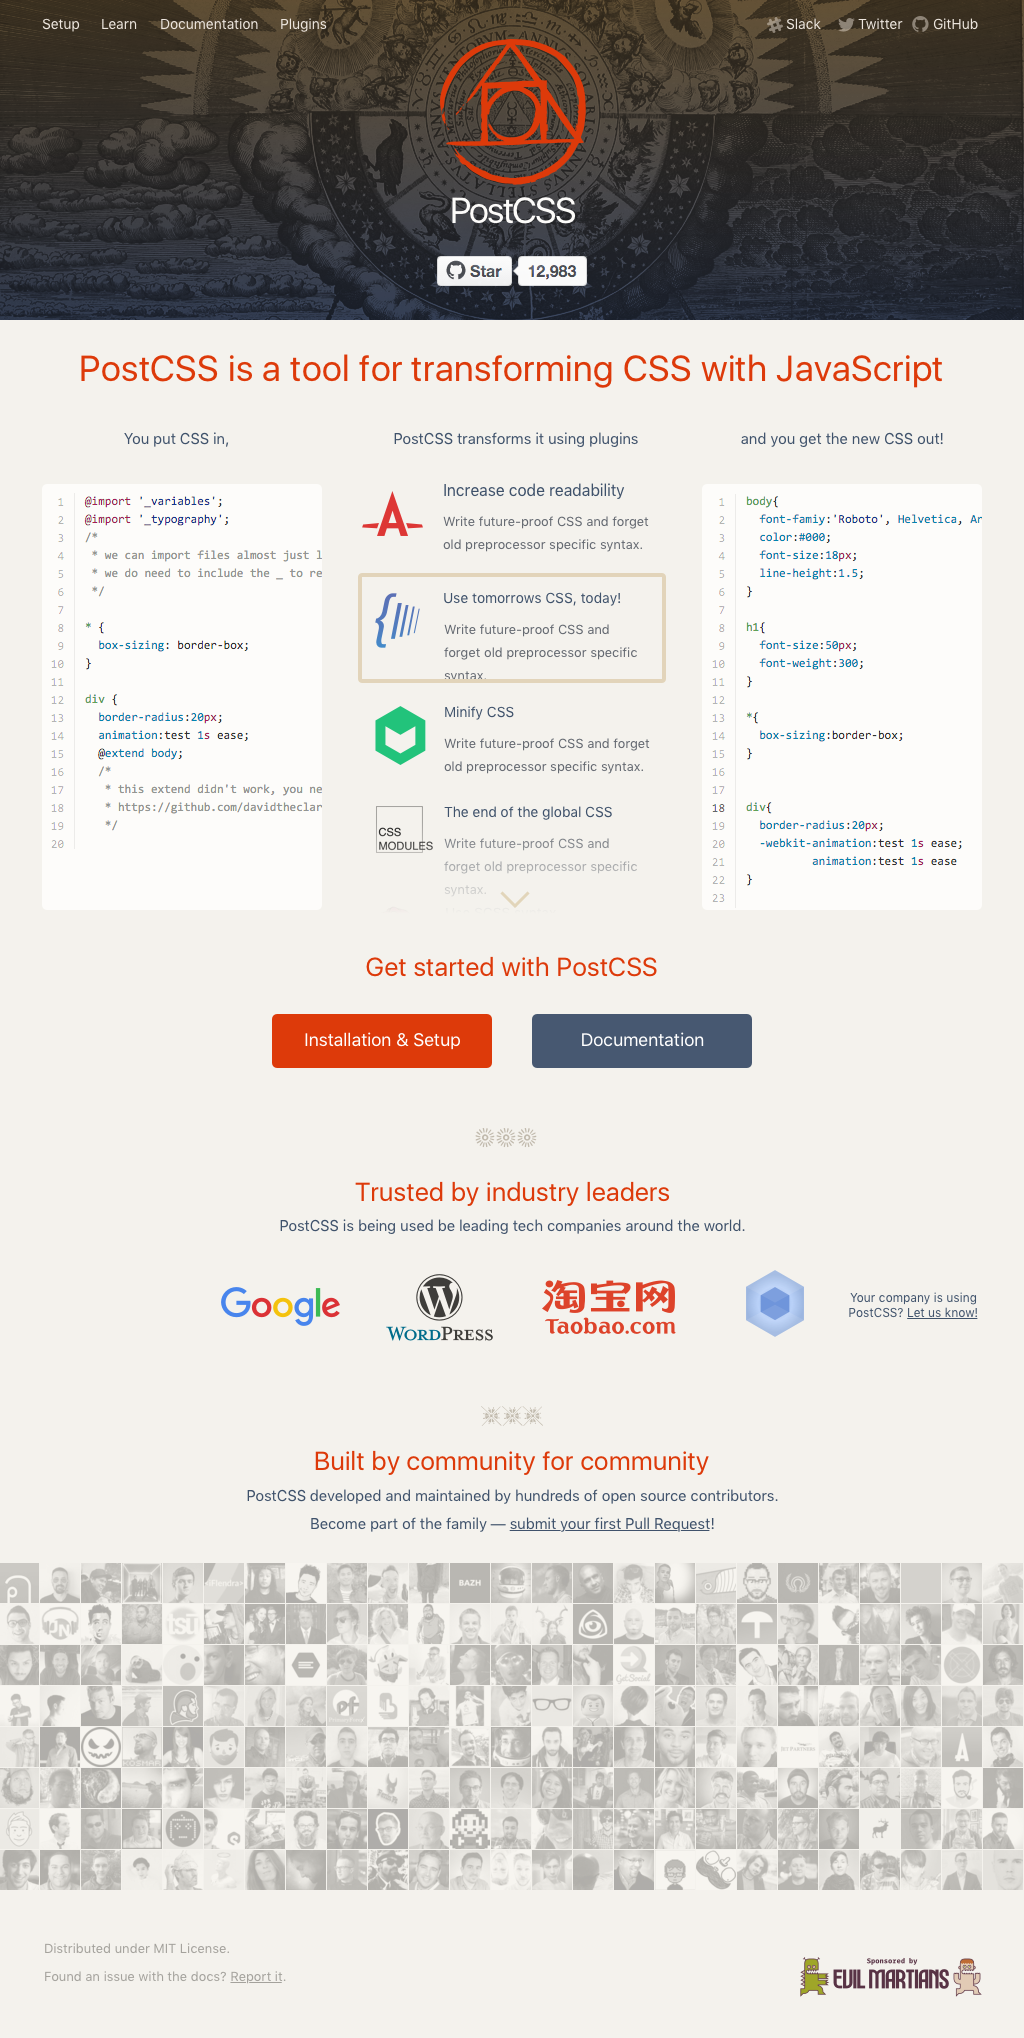
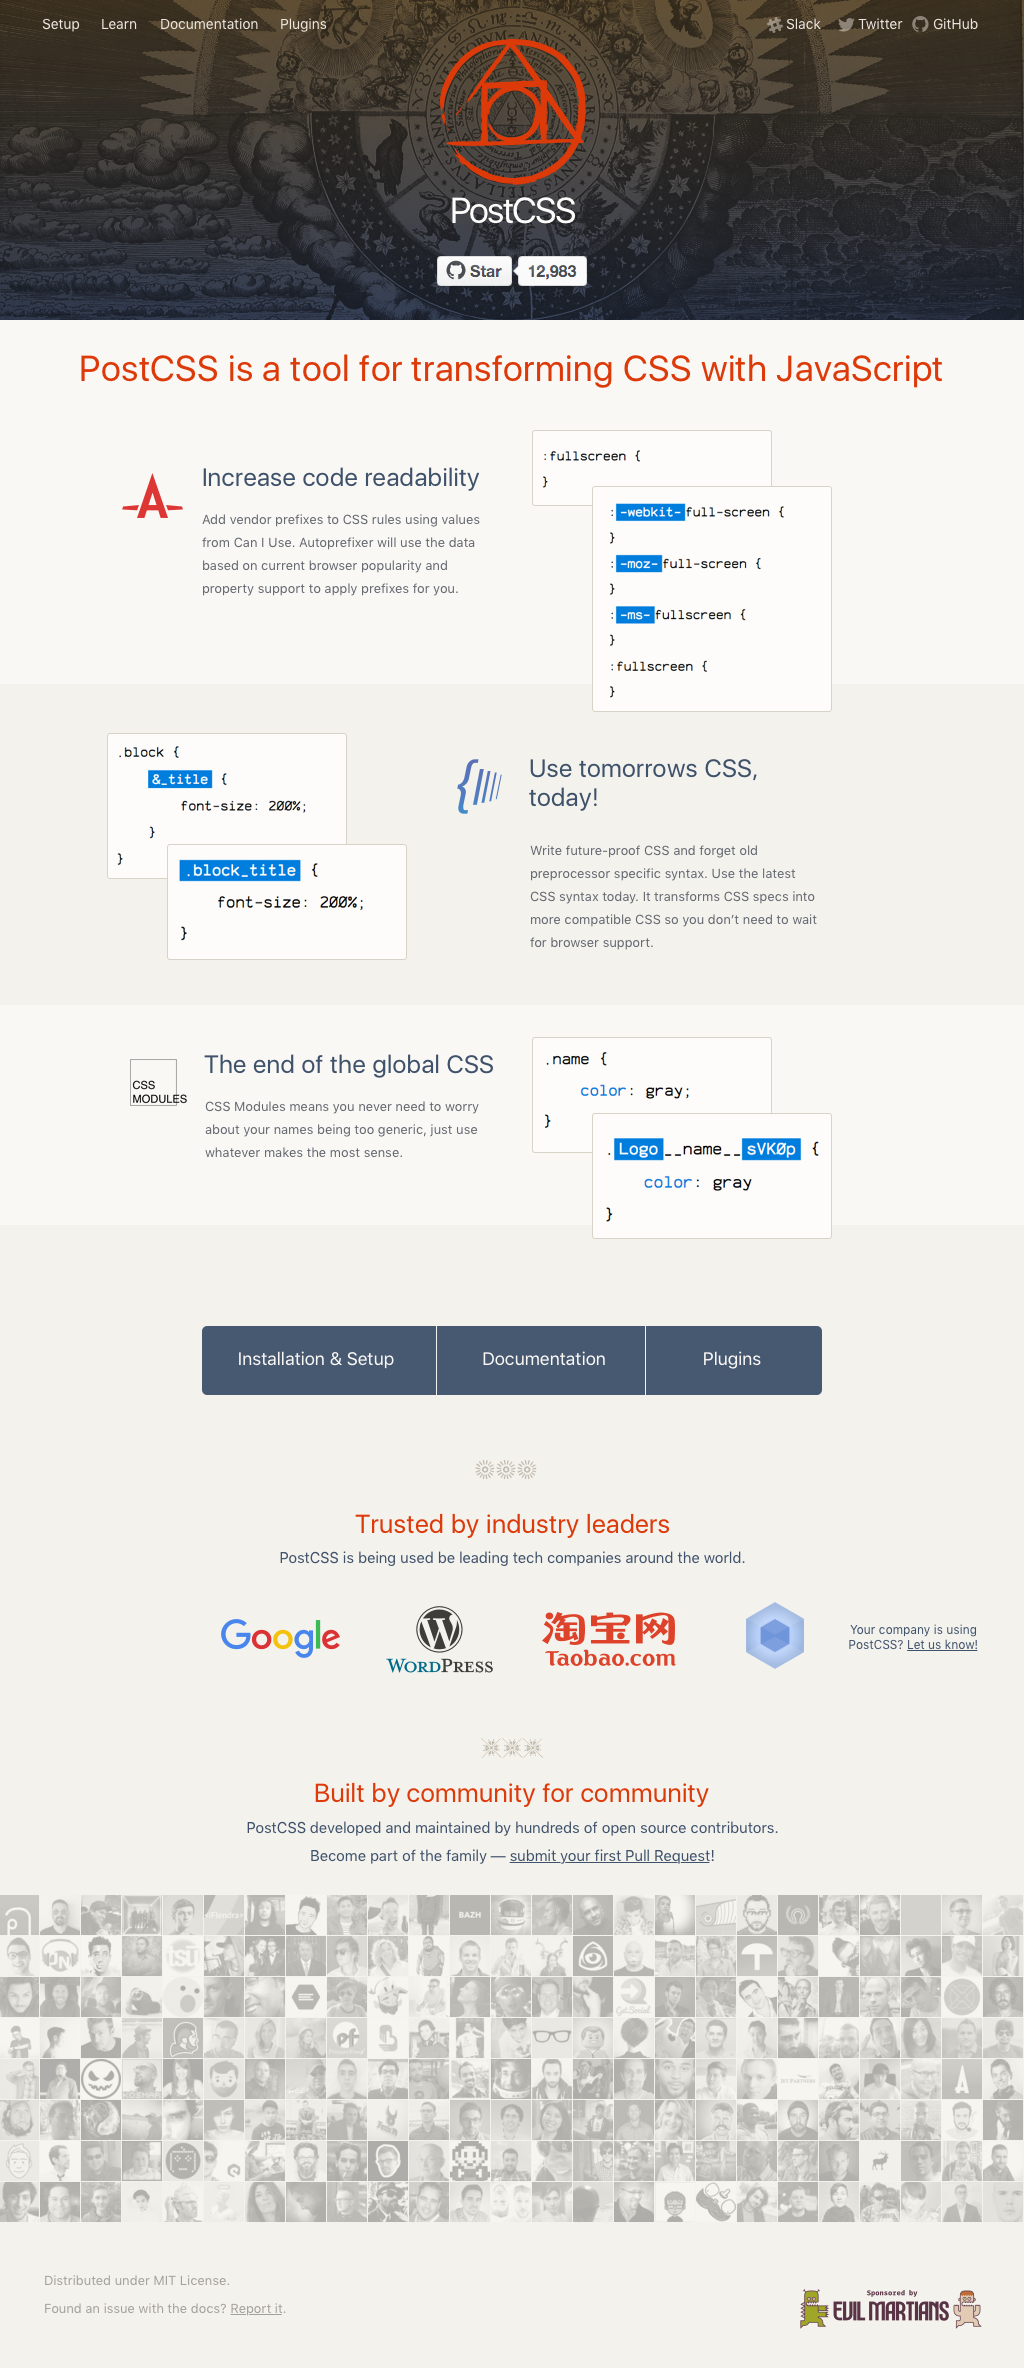
Added generated sketch file into png

diff --git a/design/gulpfile.js b/design/gulpfile.js
@@ -12,7 +12,7 @@ gulp.task('sketch', function(){
     getutil.log(error); return;
   }
 
-  return gulp.src('./src/sketch/frontpage-dark.sketch')
+  return gulp.src('./src/sketch/*.sketch')
     .pipe(sketch({
       export: 'slices',
       formats: 'png'
